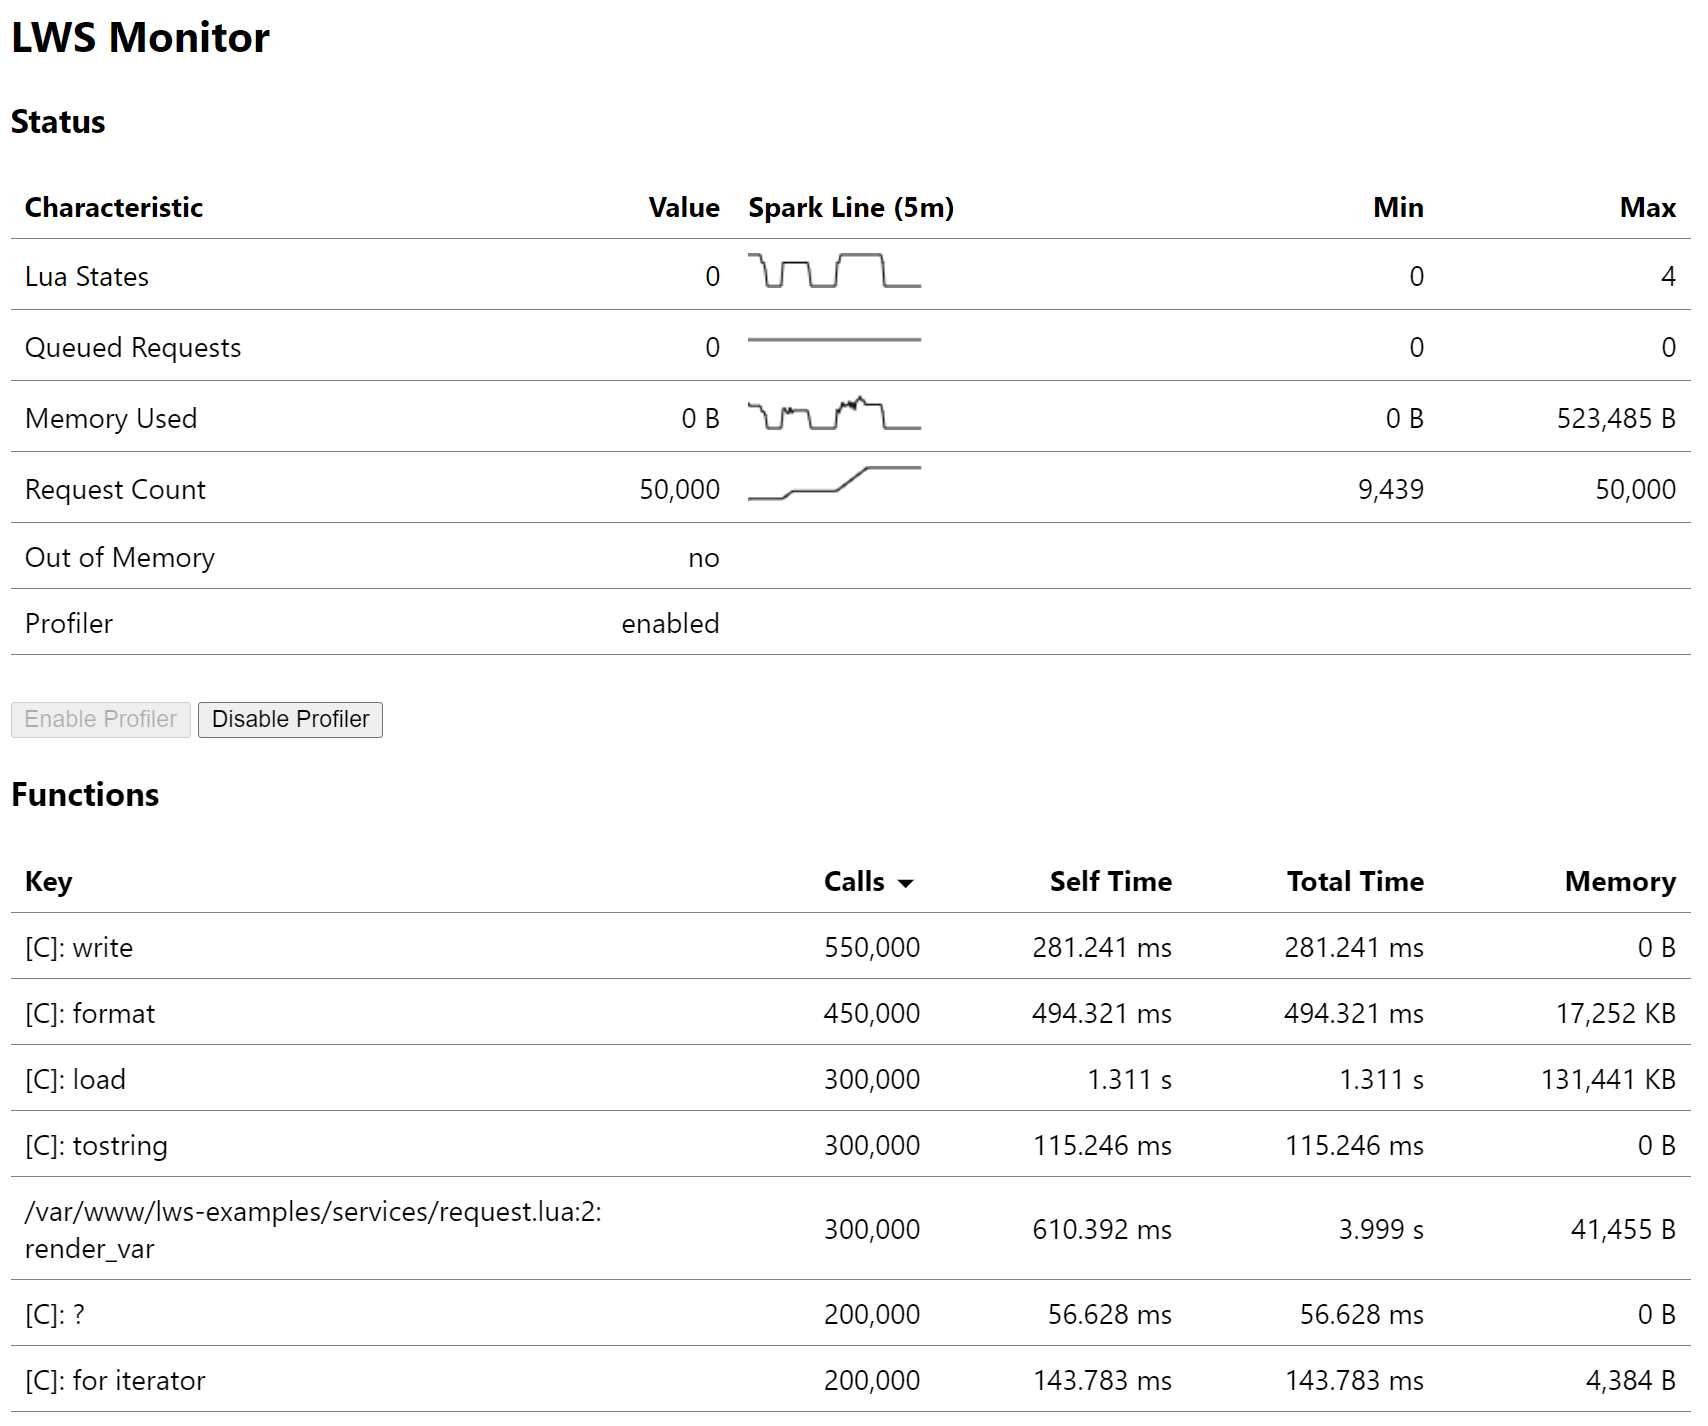
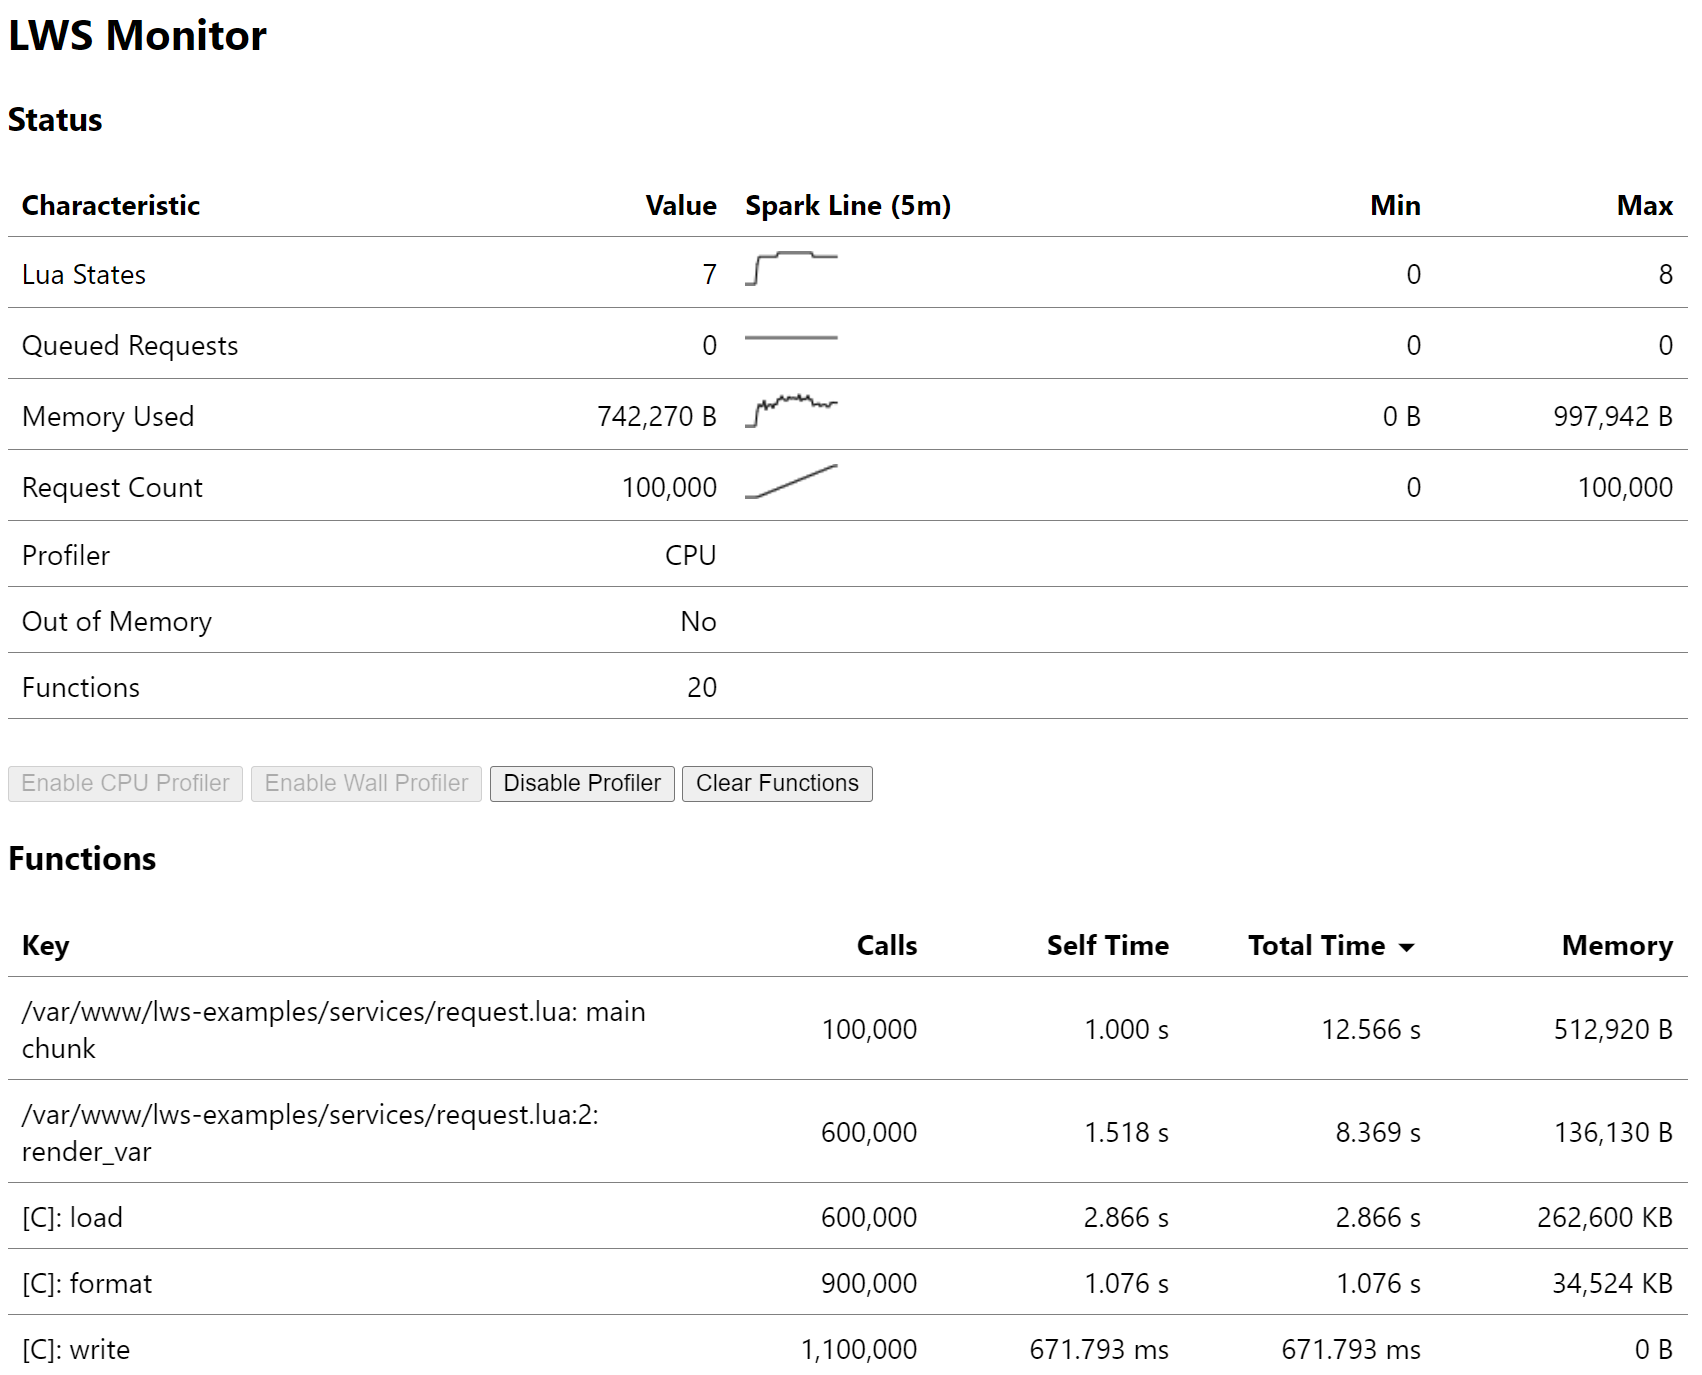
monitor and profiler improvements

diff --git a/examples/static/monitor.html b/examples/static/monitor.html
@@ -88,13 +88,13 @@
 					<td class="text-end" id="request_count_max"></td>
 				</tr>
 				<tr>
-					<td>Out of Memory</td>
-					<td class="text-end" id="out_of_memory"></td>
+					<td>Profiler</td>
+					<td class="text-end" id="profiler"></td>
 					<td colspan="3"></td>
 				</tr>
 				<tr>
-					<td>Profiler</td>
-					<td class="text-end" id="profiler"></td>
+					<td>Out of Memory</td>
+					<td class="text-end" id="out_of_memory"></td>
 					<td colspan="3"></td>
 				</tr>
 				<tr>
@@ -105,7 +105,8 @@
 			</tbody>
 		</table>
 		<div class="row">
-			<button type="button" id="profiler_enable" disabled>Enable Profiler</button>
+			<button type="button" id="profiler_enable_cpu" disabled>Enable CPU Profiler</button>
+			<button type="button" id="profiler_enable_wall" disabled>Enable Wall Profiler</button>
 			<button type="button" id="profiler_disable" disabled>Disable Profiler</button>
 			<button type="button" id="functions_clear" disabled>Clear Functions</button>
 		</div>
@@ -288,8 +289,11 @@
 		window.addEventListener("load", function () {
 			updateStatus(true);
 			setInterval(function () { updateStatus(true) }, 3000);
-			document.getElementById("profiler_enable").addEventListener("click", function () {
+			document.getElementById("profiler_enable_cpu").addEventListener("click", function () {
 				setProfiler(1);
+			});
+			document.getElementById("profiler_enable_wall").addEventListener("click", function () {
+				setProfiler(2);
 			});
 			document.getElementById("profiler_disable").addEventListener("click", function () {
 				setProfiler(0);
@@ -331,20 +335,21 @@
 				hasSpark: true
 			},
 			{
-				key: "out_of_memory",
+				key: "profiler",
 				format: function (value) {
-					return value ? "yes" : "no";
+					return ["Disabled", "CPU", "Wall"][value];
+				},
+				updateUi: function (value) {
+					document.getElementById("profiler_enable_cpu").disabled = value != 0;
+					document.getElementById("profiler_enable_wall").disabled = value != 0;
+					document.getElementById("profiler_disable").disabled = value == 0;
 				},
 				hasSpark: false
 			},
 			{
-				key: "profiler",
+				key: "out_of_memory",
 				format: function (value) {
-					return value ? "enabled" : "disabled";
-				},
-				updateUi: function (value) {
-					document.getElementById("profiler_enable").disabled = value == 1;
-					document.getElementById("profiler_disable").disabled = value == 0;
+					return value ? "Yes" : "No";
 				},
 				hasSpark: false
 			},

diff --git a/src/lws_profiler.c b/src/lws_profiler.c
@@ -77,12 +77,6 @@ static void lws_profiler_hook (lua_State *L, lua_Debug *ar) {
 	struct timespec           time;
 	lws_activation_record_t  *par, **stack_new;
 
-	/* get time and memory on entry */
-	if (clock_gettime(CLOCK_THREAD_CPUTIME_ID, &time) != 0) {
-		luaL_error(L, "failed to get profiler thread CPU time");
-	}
-	memory = (size_t)lua_gc(L, LUA_GCCOUNT, 0) * 1024 + lua_gc(L, LUA_GCCOUNTB, 0);
-
 	/* get profiler */
 	lua_getfield(L, LUA_REGISTRYINDEX, LWS_PROFILER_CURRENT);
 	if (!(p = luaL_testudata(L, -1, LWS_PROFILER))) {
@@ -90,7 +84,14 @@ static void lws_profiler_hook (lua_State *L, lua_Debug *ar) {
 	}
 	lua_pop(L, 1);
 
-	/* process exit */
+	/* get time and memory on hook entry */
+	if (clock_gettime(p->clock_id, &time) != 0) {
+		luaL_error(L, "failed to get profiler %s time", p->clock_id
+				== CLOCK_THREAD_CPUTIME_ID ? "thread CPU" : "wall");
+	}
+	memory = (size_t)lua_gc(L, LUA_GCCOUNT, 0) * 1024 + lua_gc(L, LUA_GCCOUNTB, 0);
+
+	/* process function exit */
 	if (p->stack_n > 0) {
 		par = p->stack[p->stack_n - 1];
 		lws_timespec_add_delta(&par->time_self, &par->time_self_start, &time);
@@ -162,10 +163,11 @@ static void lws_profiler_hook (lua_State *L, lua_Debug *ar) {
 		par = p->stack_n > 0 ? p->stack[p->stack_n - 1] : NULL;
 	}
 
-	/* process entry */
+	/* process function entry */
 	if (par) {
-		if (clock_gettime(CLOCK_THREAD_CPUTIME_ID, &time) != 0) {
-			luaL_error(L, "failed to get profiler thread CPU time");
+		if (clock_gettime(p->clock_id, &time) != 0) {
+			luaL_error(L, "failed to get profiler %s time", p->clock_id
+					== CLOCK_THREAD_CPUTIME_ID ? "thread CPU" : "wall");
 		}
 		par->time_self_start = time;
 		par->memory_start = memory;
@@ -192,7 +194,8 @@ int lws_profiler_open (lua_State *L) {
 }
 
 int lws_profiler_start (lua_State *L) {
-	lws_profiler_t  *p;
+	lws_profiler_t   *p;
+	lws_main_conf_t  *lmcf;
 
 	/* create and set profiler */
 	p = lua_newuserdata(L, sizeof(lws_profiler_t));
@@ -213,6 +216,8 @@ int lws_profiler_start (lua_State *L) {
 	if (!p->stack) {
 		return luaL_error(L, "faild to allocate profiler stack");
 	}
+	lmcf = ngx_http_cycle_get_module_main_conf(ngx_cycle, lws);
+	p->clock_id = lmcf->monitor->profiler == 1 ? CLOCK_THREAD_CPUTIME_ID : CLOCK_MONOTONIC_RAW;
 
 	/* set hook */
 	lua_sethook(L, lws_profiler_hook, LUA_MASKCALL | LUA_MASKRET, 0);
@@ -260,7 +265,7 @@ int lws_profiler_stop (lua_State *L) {
 				if (!functions_new) {
 					ngx_log_error(NGX_LOG_ERR, ngx_cycle->log, 0, "[LWS] "
 							"failed to allocate monitor functions");
-					ngx_atomic_cmp_set(&lmcf->monitor->out_of_memory, 0, 1);
+					lmcf->monitor->out_of_memory = 1;
 					break;
 				}
 				ngx_memcpy(functions_new, lmcf->monitor->functions,
@@ -275,7 +280,7 @@ int lws_profiler_stop (lua_State *L) {
 			if (!f->key.data) {
 				ngx_log_error(NGX_LOG_ERR, ngx_cycle->log, 0, "[LWS] "
 						"failed to allocate monitor function key");
-				ngx_atomic_cmp_set(&lmcf->monitor->out_of_memory, 0, 1);
+				lmcf->monitor->out_of_memory = 1;
 				break;
 			}
 			ngx_memcpy(f->key.data, key->data, key->len);

diff --git a/src/lws_monitor.c b/src/lws_monitor.c
@@ -108,8 +108,8 @@ static ngx_int_t lws_monitor_content (ngx_http_request_t *r) {
 	len += sizeof("\t\"requests_n\": ,\n") - 1  + 20;
 	len += sizeof("\t\"memory_used\": ,\n") - 1  + 20;
 	len += sizeof("\t\"request_count\": ,\n") - 1  + 20;
-	len += sizeof("\t\"out_of_memory\": ,\n") - 1  + 1;
 	len += sizeof("\t\"profiler\": ,\n") - 1  + 1;
+	len += sizeof("\t\"out_of_memory\": ,\n") - 1  + 1;
 	len += sizeof("\t\"functions\": [\n") - 1;
 	for (i = 0; i < lmcf->monitor->functions_n; i++) {
 		f = &lmcf->monitor->functions[i];
@@ -130,14 +130,14 @@ static ngx_int_t lws_monitor_content (ngx_http_request_t *r) {
 			"\t\"requests_n\": %i,\n"
 			"\t\"memory_used\": %i,\n"
 			"\t\"request_count\": %i,\n"
-			"\t\"out_of_memory\": %i,\n"
-			"\t\"profiler\": %i,\n",
+			"\t\"profiler\": %i,\n"
+			"\t\"out_of_memory\": %i,\n",
 			(ngx_int_t)lmcf->monitor->states_n,
 			(ngx_int_t)lmcf->monitor->requests_n,
 			(ngx_int_t)lmcf->monitor->memory_used,
 			(ngx_int_t)lmcf->monitor->request_count,
-			(ngx_int_t)lmcf->monitor->out_of_memory,
-			(ngx_int_t)lmcf->monitor->profiler);
+			(ngx_int_t)lmcf->monitor->profiler,
+			(ngx_int_t)lmcf->monitor->out_of_memory);
 	if (lmcf->monitor->functions_n == 0) {
 		b->last = lws_cpylit(b->last, "\t\"functions\": []\n");
 	} else {
@@ -282,9 +282,11 @@ static void lws_monitor_body (ngx_http_request_t *r) {
 
 static ngx_int_t lws_monitor_pair (ngx_http_request_t * r, ngx_str_t *key, ngx_str_t *value) {
 	size_t            i;
+	lws_monitor_t    *m;
 	lws_main_conf_t  *lmcf;
 
 	lmcf = ngx_http_get_module_main_conf(r, lws);
+	m = lmcf->monitor;
 	switch (key->len) {
 	case 8:
 		if (ngx_strncmp(key->data, "profiler", 8) == 0) {
@@ -293,13 +295,15 @@ static ngx_int_t lws_monitor_pair (ngx_http_request_t * r, ngx_str_t *key, ngx_s
 			}
 			switch (*value->data) {
 			case '0':
-				if (!ngx_atomic_cmp_set(&lmcf->monitor->profiler, 1, 0)) {
+				if (!ngx_atomic_cmp_set(&m->profiler, 1, 0)
+						&& !ngx_atomic_cmp_set(&m->profiler, 2, 0)) {
 					return NGX_HTTP_CONFLICT;
 				}
 				break;
 
 			case '1':
-				if (!ngx_atomic_cmp_set(&lmcf->monitor->profiler, 0, 1)) {
+			case '2':
+				if (!ngx_atomic_cmp_set(&m->profiler, 0, *value->data - '0')) {
 					return NGX_HTTP_CONFLICT;
 				}
 				break;
@@ -316,12 +320,11 @@ static ngx_int_t lws_monitor_pair (ngx_http_request_t * r, ngx_str_t *key, ngx_s
 				return NGX_HTTP_BAD_REQUEST;
 			}
 			ngx_shmtx_lock(&lmcf->monitor_pool->mutex);
-			for (i = 0; i < lmcf->monitor->functions_n; i++) {
-				ngx_slab_free_locked(lmcf->monitor_pool,
-						lmcf->monitor->functions[i].key.data);
+			for (i = 0; i < m->functions_n; i++) {
+				ngx_slab_free_locked(lmcf->monitor_pool, m->functions[i].key.data);
 			}
-			ngx_atomic_cmp_set(&lmcf->monitor->out_of_memory, 1, 0);
-			lmcf->monitor->functions_n = 0;
+			m->out_of_memory = 0;
+			m->functions_n = 0;
 			ngx_shmtx_unlock(&lmcf->monitor_pool->mutex);
 		}
 		break;

diff --git a/src/lws_profiler.h b/src/lws_profiler.h
@@ -17,10 +17,11 @@ typedef struct lws_profiler_s lws_profiler_t;
 typedef struct lws_activation_record_s lws_activation_record_t;
 
 struct lws_profiler_s {
-	lws_table_t               *functions;    /* profiler functions */
-	lws_activation_record_t  **stack;        /* profiler stack */
-	size_t                     stack_n;      /* profiler stack count */
-	size_t                     stack_alloc;  /* profiler stack allocated */
+	lws_table_t               *functions;    /* functions */
+	lws_activation_record_t  **stack;        /* stack */
+	size_t                     stack_n;      /* stack count */
+	size_t                     stack_alloc;  /* stack allocated */
+	clockid_t                  clock_id;     /* clock */
 };
 
 struct lws_activation_record_s {

diff --git a/src/lws_monitor.h b/src/lws_monitor.h
@@ -22,8 +22,8 @@ struct lws_monitor_s {
 	ngx_atomic_t     requests_n;       /* number of queued requests */
 	ngx_atomic_t     memory_used;      /* used memory */
 	ngx_atomic_t     request_count;    /* requests served */
-	ngx_atomic_t     out_of_memory;    /* out-of-memory; 0 = no */
-	ngx_atomic_t     profiler;         /* profiler status; 0 = disabled */
+	ngx_atomic_t     profiler;         /* profiler status; 0 = disabled, 1 = CPU, 2 = wall */
+	ngx_int_t        out_of_memory;    /* out-of-memory; 0 = no */
 	size_t           functions_n;      /* number of profiled functions */
 	size_t           functions_alloc;  /* allocated profiled functions */
 	lws_function_t  *functions;        /* profiled functions */

diff --git a/src/lws_state.c b/src/lws_state.c
@@ -227,7 +227,7 @@ lws_state_t *lws_get_state (lws_request_ctx_t *ctx) {
 		}
 	}
 	lmcf = ngx_http_get_module_main_conf(ctx->r, lws);
-	state->profiling = lmcf->monitor ? lmcf->monitor->profiler : 0;
+	state->profiling = lmcf->monitor ? lmcf->monitor->profiler != 0 : 0;
 	state->in_use = 1;
 	return state;
 }

diff --git a/doc/Monitor.md b/doc/Monitor.md
@@ -36,12 +36,12 @@ The following table describes the keys of the document.
 | `memory_used` | `number` | Memory used by Lua, in bytes |
 | `request_count` | `number` | Total number of requests served |
 | `out_of_memory` | `number` | Monitor has run out of memory; `0` = no, `1` = yes |
-| `profiler` | `number` | Profiler status; `0` = disabled, `1` = enabled |
+| `profiler` | `number` | Profiler status; `0` = disabled, `1` = CPU, `2` = wall |
 | `functions` | `array` | Profiled functions (see below) |
 
 ### Profiled Function
 
-Each profiled function is represented by an array with the following values.
+An array with the following values represents each profiled function.
 
 | Index | Type | Description |
 | --- | --- | --- |
@@ -57,15 +57,16 @@ The profiler uses the fixed-size shared memory zone of the monitor. If the zone 
 memory, an error is logged, and the `out_of_memory` flag is set. In this case, the list of
 profiled functions is incomplete.
 
-Self time and total time are measured in thread CPU time (as opposed to wall time.) Each time is
-represented as a sum of seconds and nanoseconds. Self time is the time spent in the function
-per se, whereas as total time additionally includes the time spent in child functions, i.e.,
-functions that are called from the parent function under consideration. A tail call is processed
-as an exit from the parent function and thus does not accumulate child time. Due to profiler
-overhead, time values are approximations.
+Self time and total time are measured in thread CPU time or wall time, depending on the
+`profiler` value. Each time is represented with a second and a nanosecond component. Self time is
+the time spent in the function per se. In contrast, total time additionally includes the time
+spent in child functions, i.e., functions directly or indirectly called from the function under
+consideration. A proper tail call is processed as an exit from the calling function and thus does
+not accumulate child time for the calling function unless the calling function is active further
+down in the call stack. Due to profiler overhead, all time values are approximations.
 
 Allocated memory is the amount of Lua memory allocated during the execution of the function per
-se. Due to potential garbage collection, this is an approximation.
+se. Due to potential garbage collection and profiler overhead, this is an approximation.
 
 ### Response Status
 
@@ -92,7 +93,8 @@ happen due to a concurrent modification.
 
 ## Examples Website
 
-The [examples website](GettingStarted.md) includes a self-contained web page that periodically
-queries the monitor for display, and allows for enabling and disabling the profiler.
+The [examples website](GettingStarted.md) includes a self-contained web page that displays data
+from the LWS monitor with periodic updates and allows for controlling the profiler. The page
+looks similar to the following figure.
 
 ![Monitor web page](images/Monitor.png)
